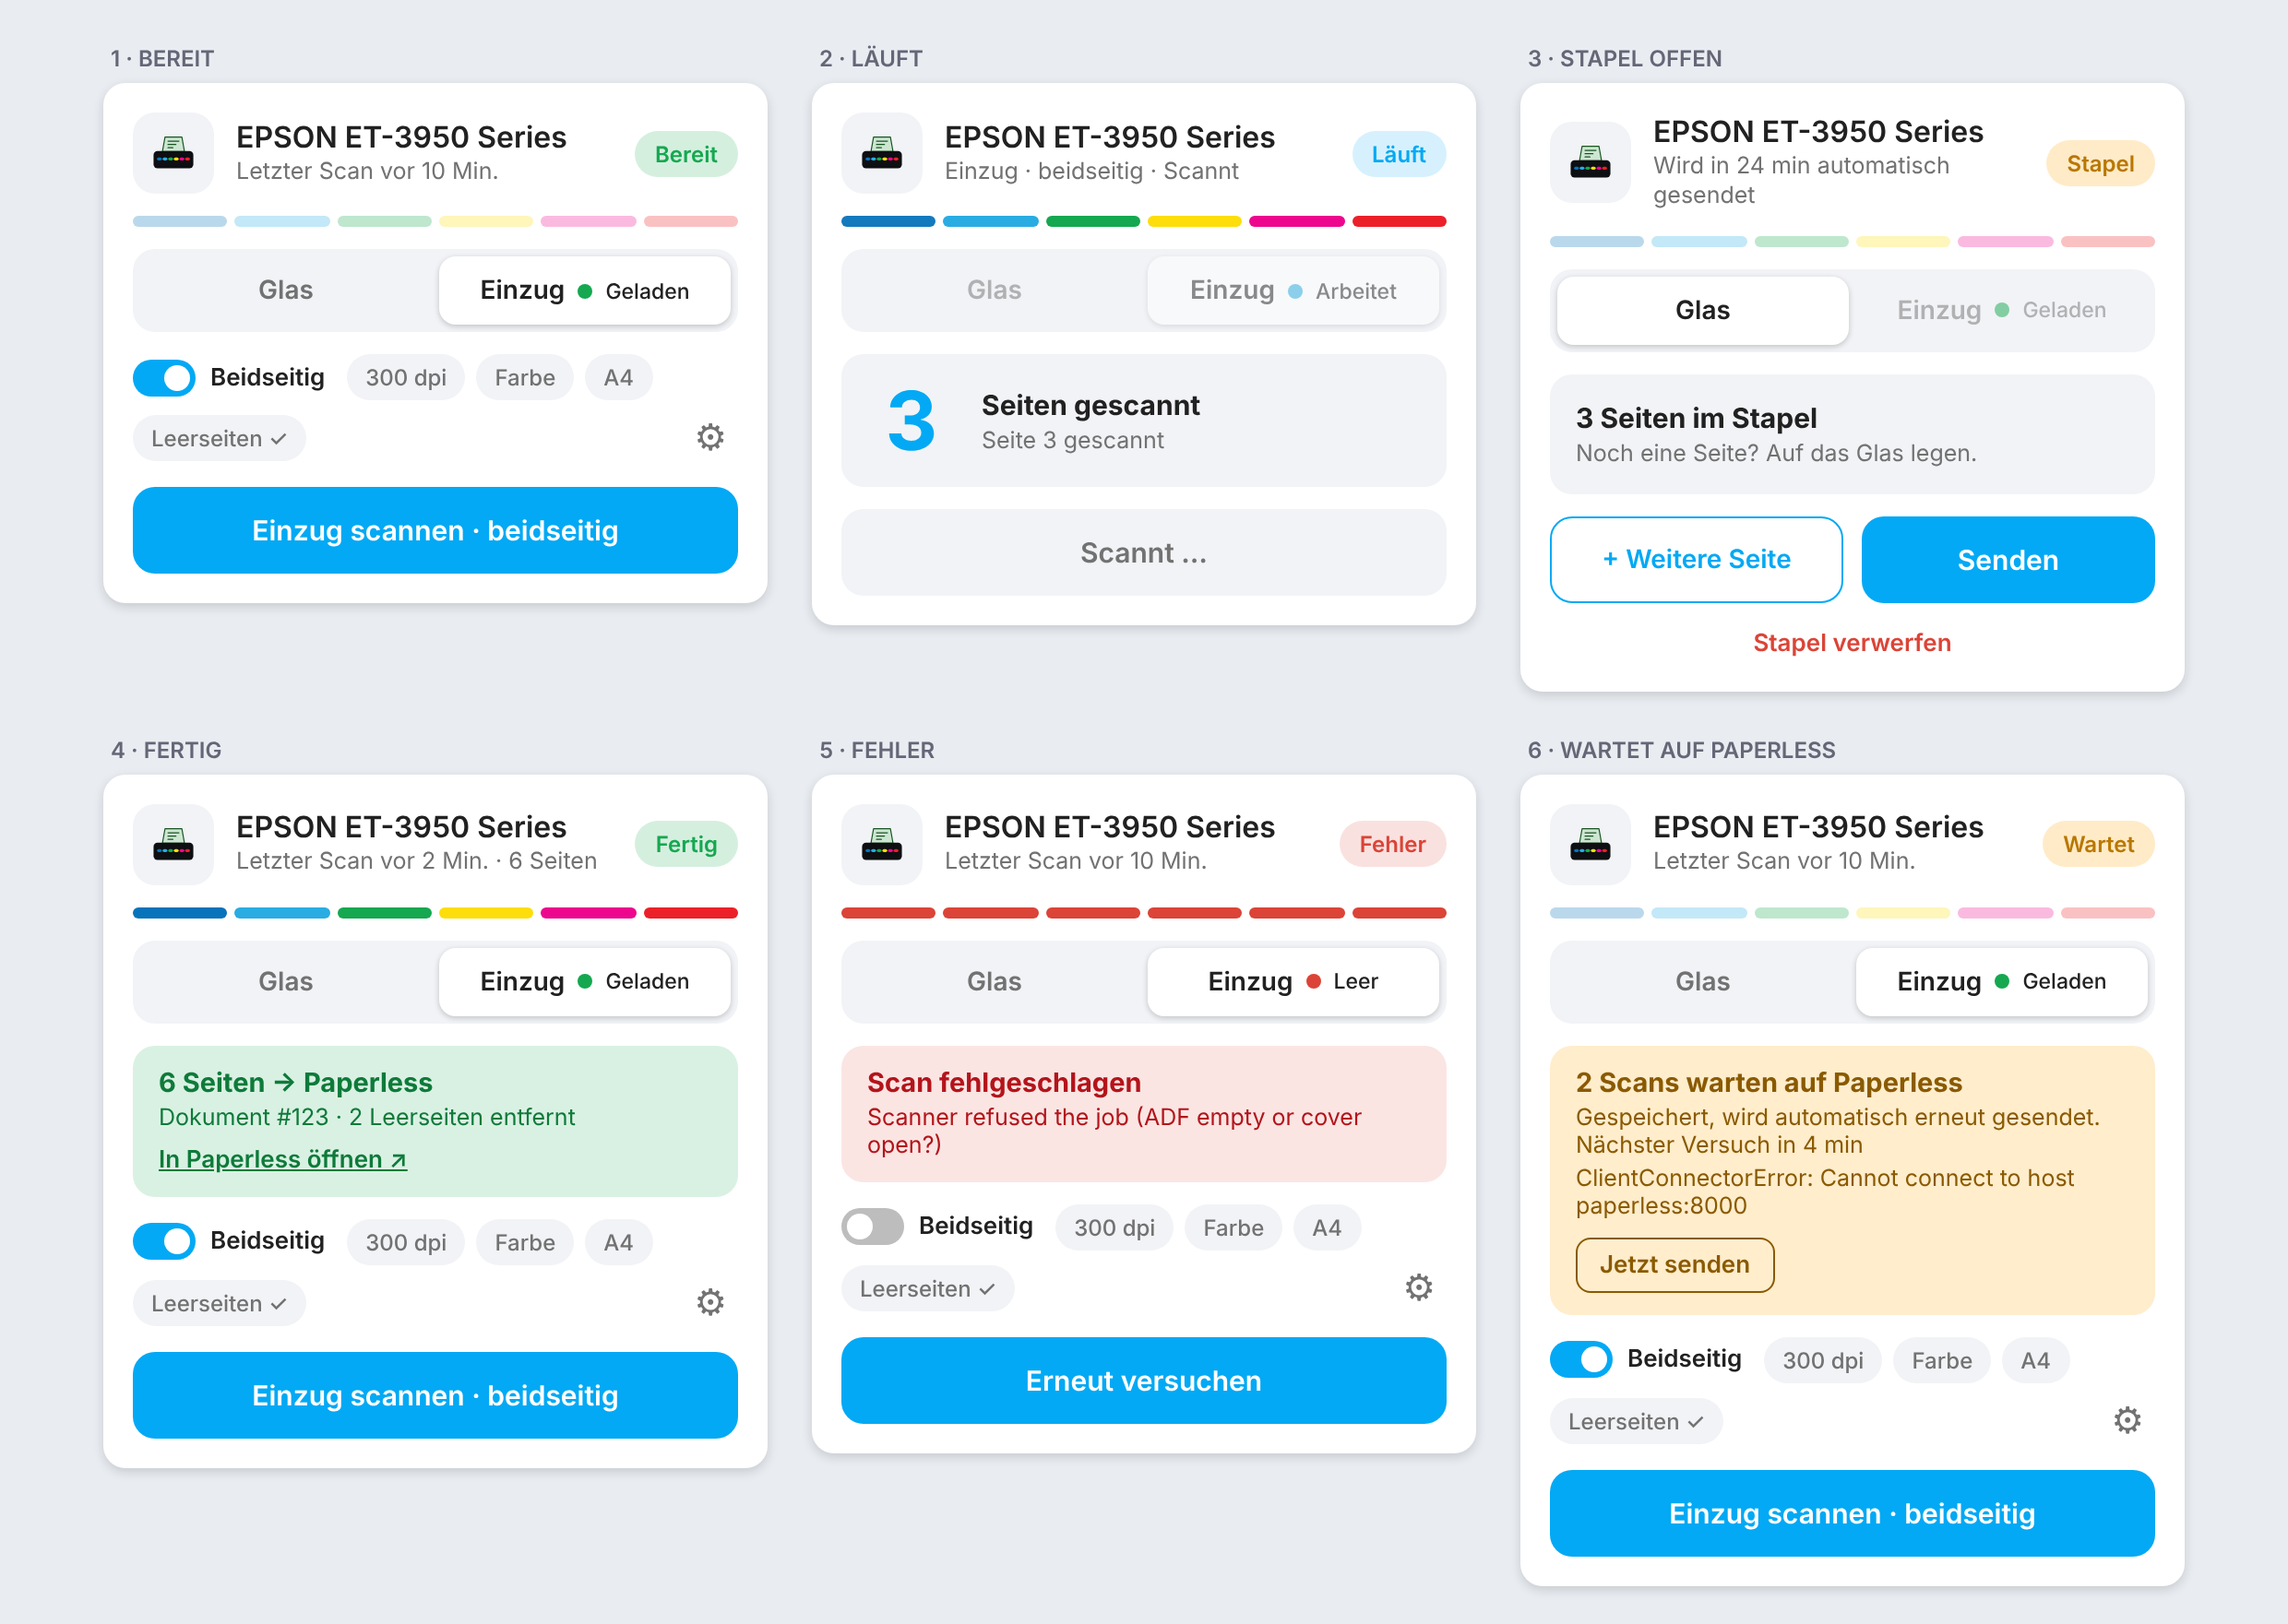
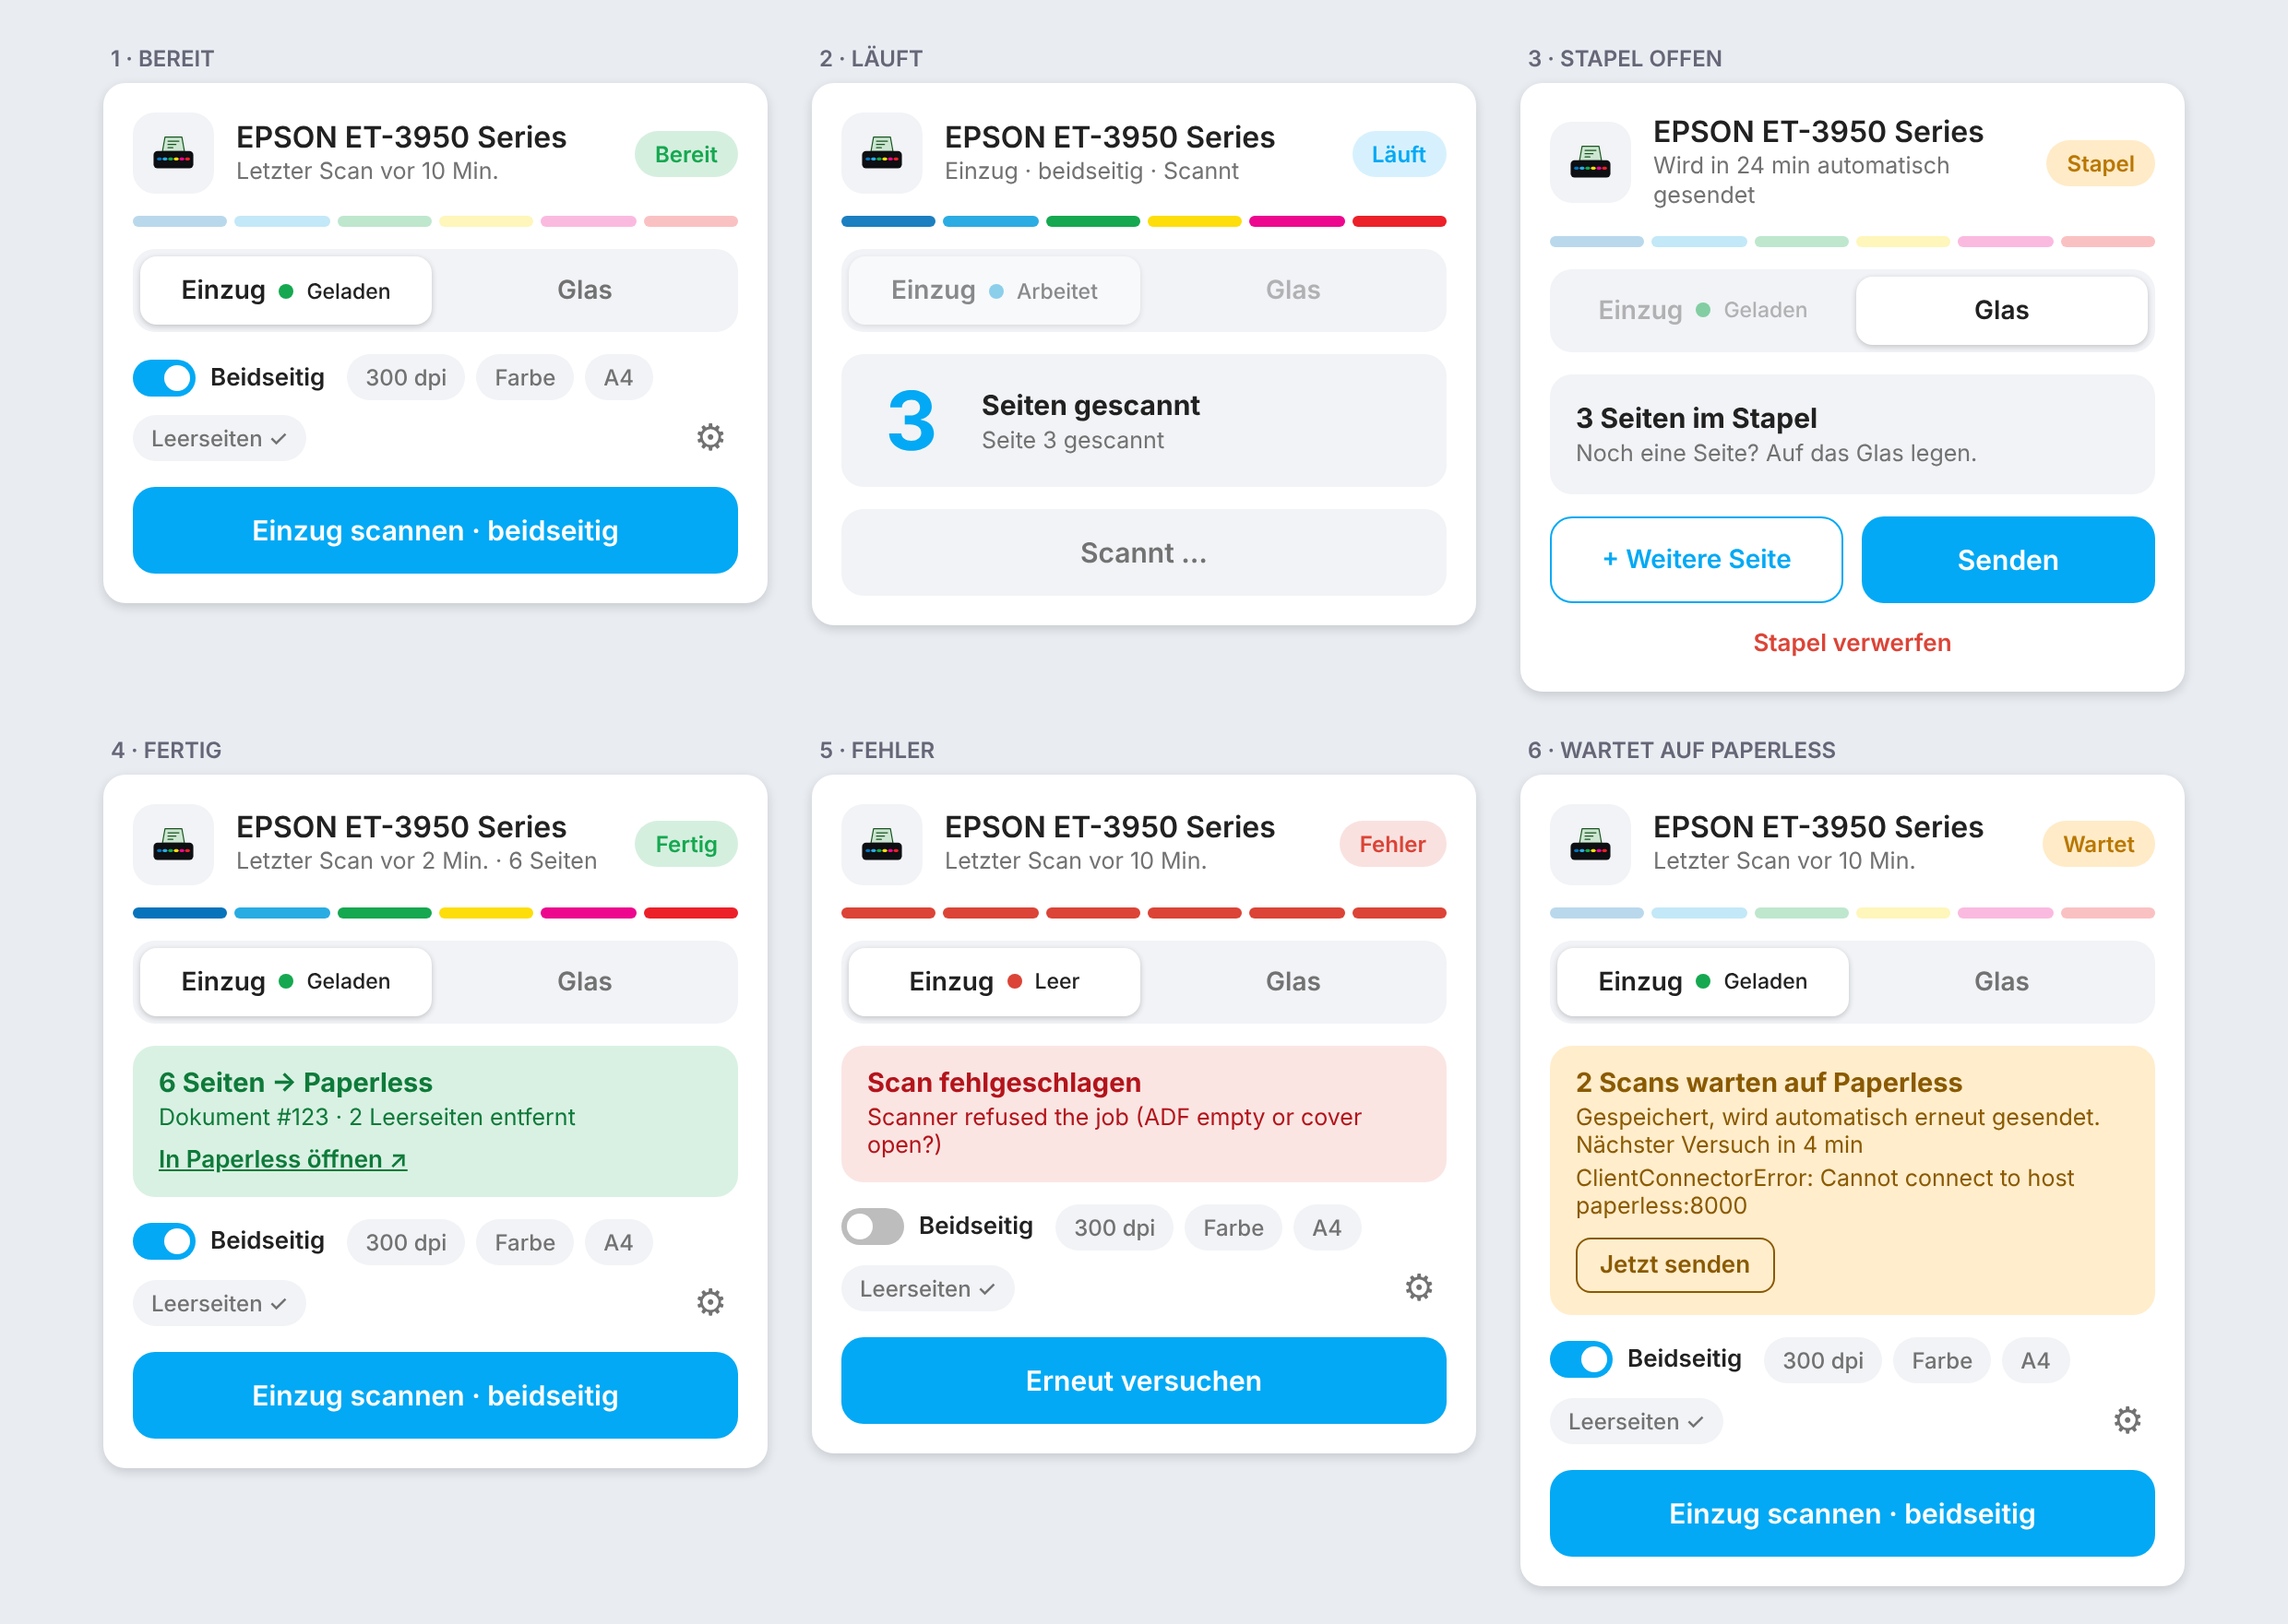
Card: feeder on the left and selected by default (0.9.4) (#21)
Claude-Session: https://claude.ai/code/session_01VXdiocP3YZJpREZCg1kc2R

diff --git a/tests/card/run.js b/tests/card/run.js
@@ -30,8 +30,13 @@ const assert = require("assert");
     const click = (c, sel) => root(c).querySelector(sel).click();
     const tick = () => new Promise((r) => setTimeout(r, 0));
 
-    const c = mount({ status: "idle" }, document.body);      // default source = glass
-    click(c, '[data-act="scan"]'); out.glass = c.hass ? null : c._hass.calls.slice();
+    const c = mount({ status: "idle" }, document.body);      // default source = feeder
+    out.defaultFeeder = root(c).querySelector('[data-act="src"][data-v="adf"]').classList.contains("on");
+    out.feederFirst = root(c).querySelector('.seg button').dataset.v;
+    out.simplex = c._hass.calls.length === 0 && (click(c, '[data-act="scan"]'), c._hass.calls.slice());
+    c._hass.calls.length = 0;
+    click(c, '[data-act="src"][data-v="platen"]'); await tick();
+    click(c, '[data-act="scan"]'); out.glass = c._hass.calls.slice();
     click(c, '[data-act="src"][data-v="adf"]'); await tick();
     click(c, '[data-act="duplex"]'); await tick();
     click(c, '[data-act="scan"]'); out.adfDuplex = c._hass.calls.slice();
@@ -74,6 +79,9 @@ const assert = require("assert");
     return out;
   });
 
+  assert.strictEqual(result.defaultFeeder, true, "feeder must be the default");
+  assert.strictEqual(result.feederFirst, "adf", "feeder button must be on the left");
+  assert.deepStrictEqual(result.simplex, [["ha_airscan", "scan", { source: "adf", duplex: false }]]);
   assert.deepStrictEqual(result.glass, [["ha_airscan", "batch_add", {}]]);
   assert.deepStrictEqual(result.adfDuplex[1], ["ha_airscan", "scan", { source: "adf", duplex: true }]);
   assert.deepStrictEqual(result.adfOverrides[2], ["ha_airscan", "scan", { source: "adf", duplex: true, resolution: 600, skip_blank: false }]);
@@ -83,7 +91,7 @@ const assert = require("assert");
   assert.strictEqual(result.runningDisabled, true);
   assert.strictEqual(result.link, "http://paperless.local:8000/documents/123/details");
   assert.strictEqual(result.toast, "Scanner is busy");
-  assert.strictEqual(result.en, "Scan page");
+  assert.strictEqual(result.en, "Scan feeder");
   assert.ok(/nicht gefunden/.test(result.missing));
   assert.deepStrictEqual(result.queue, [["ha_airscan", "retry_queue", {}]]);
   assert.ok(/2 Scans warten auf Paperless/.test(result.queueText) && /Nächster Versuch in 4 min/.test(result.queueText) && /1 von Paperless abgelehnt/.test(result.queueText), result.queueText);

diff --git a/custom_components/ha_airscan/frontend/ha-airscan-card.js b/custom_components/ha_airscan/frontend/ha-airscan-card.js
@@ -129,7 +129,7 @@ class HaAirscanCard extends HTMLElement {
   constructor() {
     super();
     this.attachShadow({ mode: "open" });
-    this._ui = { source: "platen", duplex: false, open: false, resolution: "default", color: "default", page: "default", blank: "default" };
+    this._ui = { source: "adf", duplex: false, open: false, resolution: "default", color: "default", page: "default", blank: "default" };
     this._sig = "";
     this._toast = "";
     this._tick = 0;
@@ -147,7 +147,7 @@ class HaAirscanCard extends HTMLElement {
   setConfig(config) {
     if (!config || !config.entity) throw new Error("entity (Status-Sensor des Scanners) fehlt");
     this._config = config;
-    this._key = `ha-airscan-card:${config.entity}`;
+    this._key = `ha-airscan-card:v2:${config.entity}`;
     try { Object.assign(this._ui, JSON.parse(localStorage.getItem(this._key) || "{}")); } catch (_) { /* no storage */ }
     this._ui.open = false;
     this._sig = "";
@@ -289,8 +289,8 @@ class HaAirscanCard extends HTMLElement {
     // source selector
     const feederKey = feeder ? (FEEDER_KEYS[feeder.state] || null) : null;
     const seg = (caps.platen && caps.adf) ? `<div class="seg">
-        <button data-act="src" data-v="platen" class="${source === "platen" ? "on" : ""}" ${running ? "disabled" : ""}>${esc(t.platen)}</button>
         <button data-act="src" data-v="adf" class="${source === "adf" ? "on" : ""}" ${running || locked ? "disabled" : ""} ${locked ? `title="${esc(t.batch_lock)}"` : ""}>${esc(t.adf)}${feederKey ? `<span class="dot ${esc(feeder.state)}"></span><small>${esc(t[feederKey])}</small>` : ""}</button>
+        <button data-act="src" data-v="platen" class="${source === "platen" ? "on" : ""}" ${running ? "disabled" : ""}>${esc(t.platen)}</button>
       </div>` : "";
 
     // middle part by status

diff --git a/tests/card/harness.html b/tests/card/harness.html
@@ -39,7 +39,7 @@ function mount(o, parent = document.getElementById("grid")) {
   wrap.className = o.dark ? "theme-dark" : "theme-light";
   wrap.innerHTML = `<cap>${o.cap || ""}</cap>`;
   const card = document.createElement("ha-airscan-card");
-  if (o.ui) localStorage.setItem("ha-airscan-card:sensor.epson_status", JSON.stringify(o.ui)); else localStorage.removeItem("ha-airscan-card:sensor.epson_status");
+  if (o.ui) localStorage.setItem("ha-airscan-card:v2:sensor.epson_status", JSON.stringify(o.ui)); else localStorage.removeItem("ha-airscan-card:v2:sensor.epson_status");
   card.setConfig({ entity: "sensor.epson_status" });
   card.hass = fakeHass(o);
   wrap.appendChild(card); parent.appendChild(wrap);
